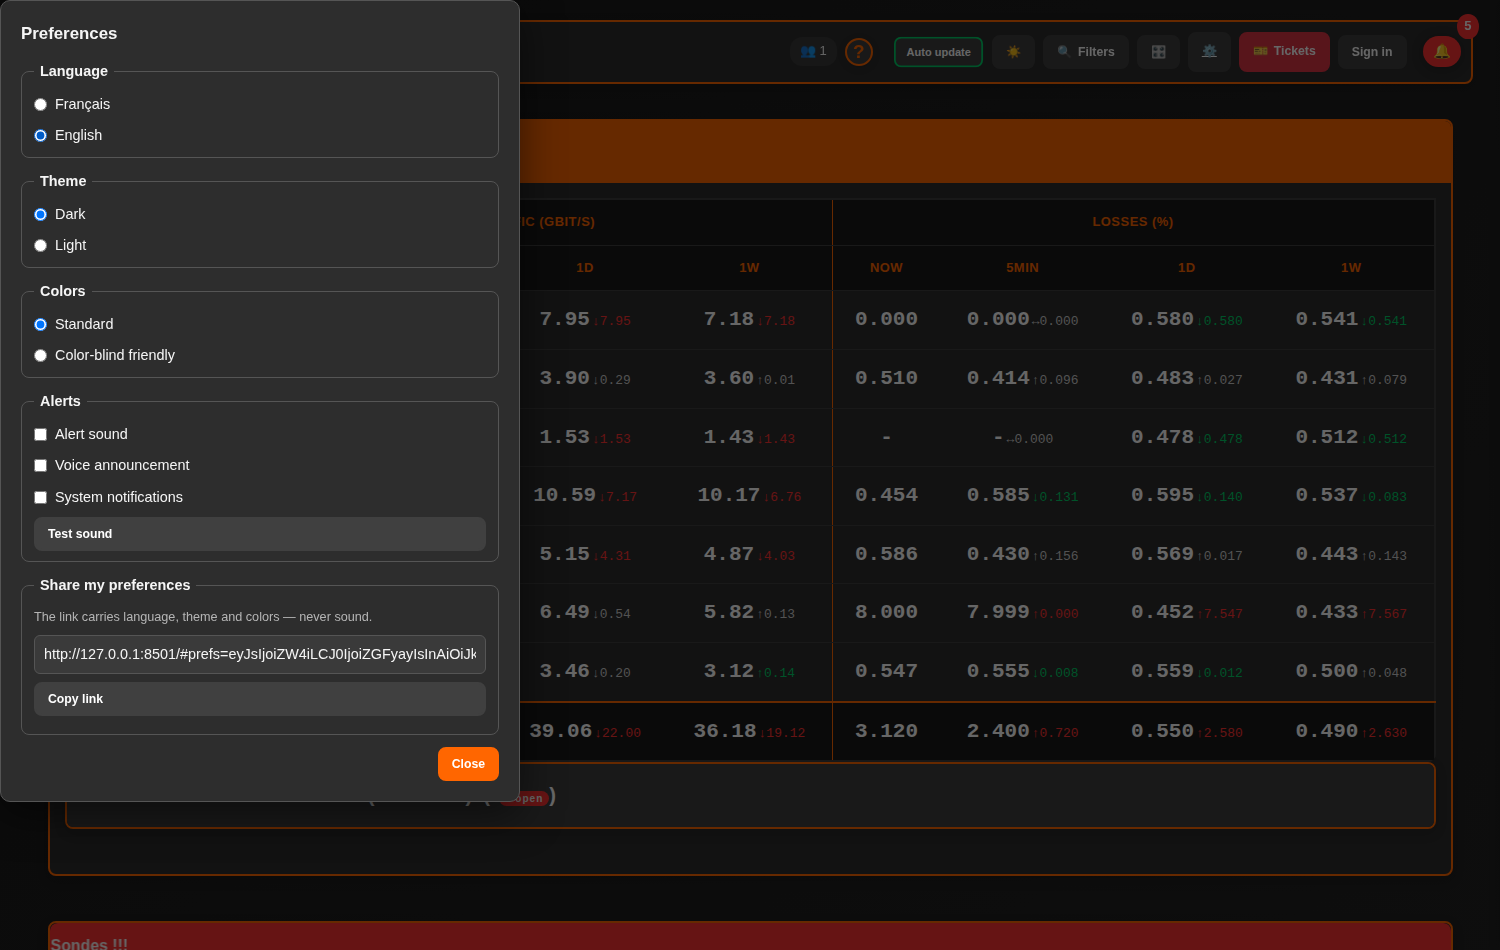
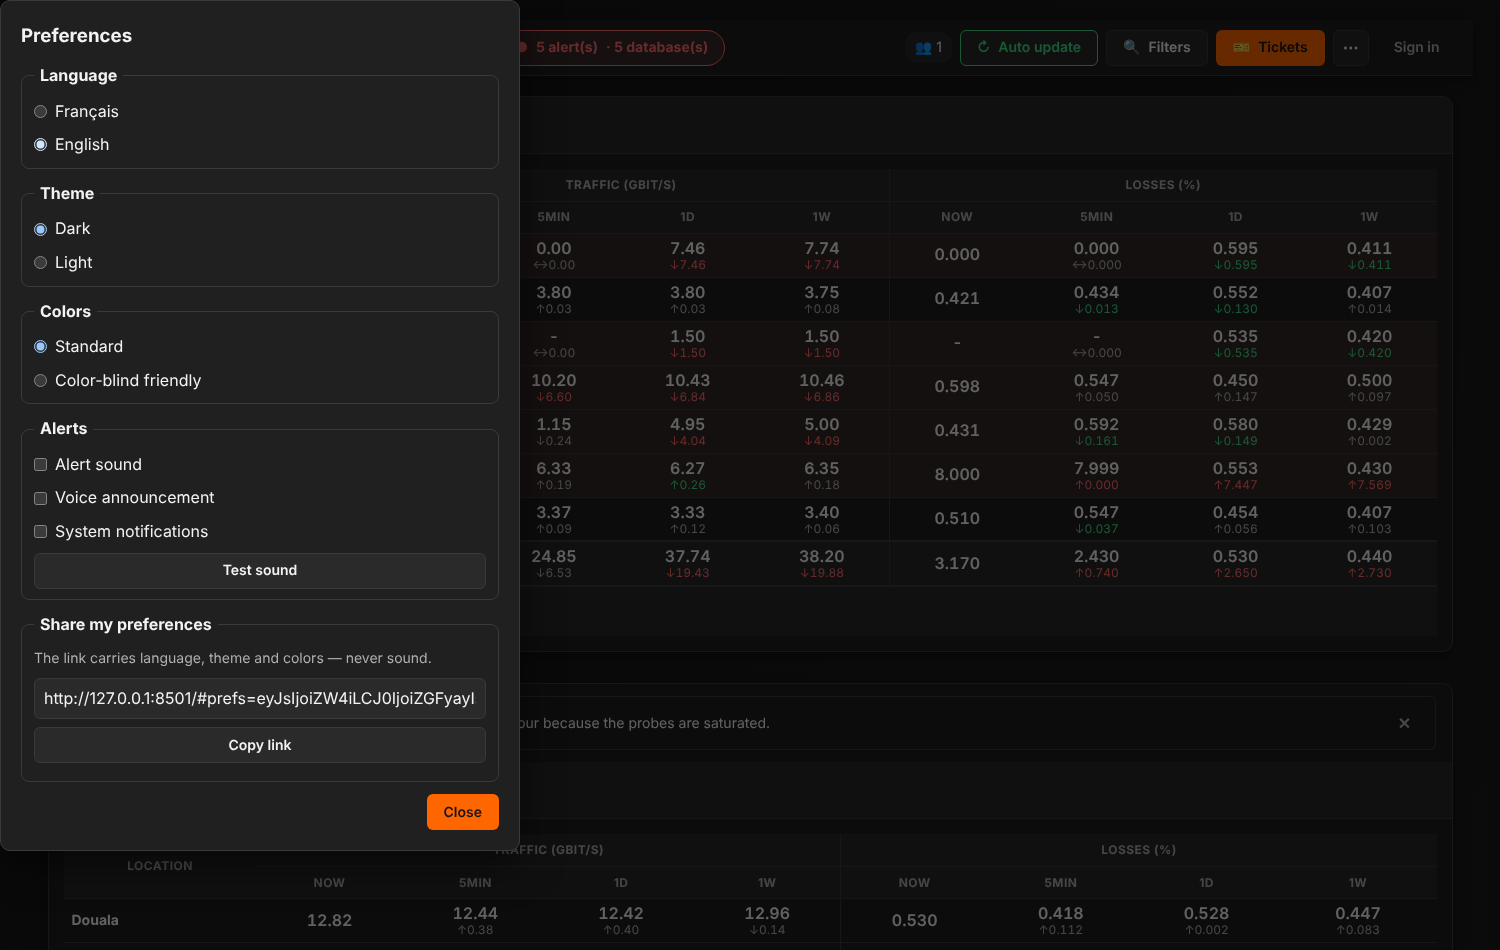
test(E2E): 7 tests migrés vers menus/navigation, 6 nouveaux tests (menus clavier, bande d'état, légende, avis, indice de défilement, barre mobile)
(cherry picked from commit b226ae35f01ef8e0baf6c30e569601f4a593c66d)

diff --git a/tests/e2e/test_e2e_ui.py b/tests/e2e/test_e2e_ui.py
@@ -68,21 +68,23 @@ def test_every_data_row_carries_its_database_key(stack, page):
 def test_language_switch_translates_and_persists(stack, page):
     page.goto(BASE + "/")
     page.wait_for_selector("tr[data-db]")
+    page.click("#moreBtn")
     page.click("#prefsBtn")
     page.check("#prefs-dialog input[name=lang][value=en]")
-    assert page.inner_text("#autoUpdateBtn").strip() == "Auto update"
+    assert "Auto update" in page.inner_text("#autoUpdateBtn")
     assert page.get_attribute("html", "lang") == "en"
     assert "International Exit" in page.inner_text("#sections-grid")
     page.screenshot(path=str(SHOTS / "C02_prefs_dialog_en.png"))
     page.click("#prefs-dialog [data-action=closeDialog]")
     page.reload()
     page.wait_for_selector("tr[data-db]")
-    assert page.inner_text("#autoUpdateBtn").strip() == "Auto update"                         # mémorisé dans le navigateur
+    assert "Auto update" in page.inner_text("#autoUpdateBtn")                         # mémorisé dans le navigateur
     page.evaluate("localStorage.clear()")
 
 
 def test_palette_and_theme_preferences(stack, page):
     page.goto(BASE + "/")
+    page.click("#moreBtn")
     page.click("#prefsBtn")
     page.check("#prefs-dialog input[name=palette][value=colorblind]")
     page.check("#prefs-dialog input[name=theme][value=light]")
@@ -92,6 +94,7 @@ def test_palette_and_theme_preferences(stack, page):
 
 def test_share_link_applies_language_theme_palette_but_never_sound(stack, browser_ctx, page):
     page.goto(BASE + "/")
+    page.click("#moreBtn")
     page.click("#prefsBtn")
     page.check("#prefs-dialog input[name=lang][value=en]")
     page.check("#prefs-dialog input[name=palette][value=colorblind]")
@@ -248,13 +251,14 @@ def test_role_gates_on_reserved_pages(stack, supervisor, admin_api, page):
     assert "Droits insuffisants" in page.inner_text(".gate")                                     # superviseur ≠ admin
     page.goto(BASE + "/supervision")
     page.wait_for_selector("#tab-params")
-    assert page.locator("#nav-admin").count() == 0 and page.locator("#nav-supervision").count() == 1
+    assert page.get_attribute(".app-nav a[aria-current=page]", "href") == "/supervision"
 
 
 def test_logout_returns_to_visitor_and_leaves_reserved_pages(stack, supervisor, page):
     api_login(page, "sup1", SUP_PASSWORD)
     page.goto(BASE + "/supervision")
     page.wait_for_selector("#tab-params")
+    page.click("#accountBtn")
     page.click("#logoutBtn")
     page.wait_for_url(BASE + "/")
     page.wait_for_selector("#loginBtn")
@@ -587,3 +591,85 @@ def test_all_pages_are_clean_for_an_admin(stack, admin_api, page):
         page.wait_for_selector("#account-name", timeout=10000)
         page.wait_for_timeout(1200)
     assert problems == [], problems
+
+
+# ---------------------------------------------------------------- refonte graphique (U3 à U5)
+def test_more_menu_is_operable_with_the_keyboard(stack, page):
+    page.goto(BASE + "/")
+    page.wait_for_selector("tr[data-db]")
+    page.focus("#moreBtn")
+    page.keyboard.press("ArrowDown")
+    assert page.get_attribute("#moreBtn", "aria-expanded") == "true"
+    assert page.evaluate("() => document.activeElement.id") == "themeToggleBtn"
+    page.keyboard.press("ArrowDown")
+    assert page.evaluate("() => document.activeElement.id") == "prefsBtn"
+    page.keyboard.press("End")
+    assert page.evaluate("() => document.activeElement.id") == "configLink"
+    page.keyboard.press("Escape")
+    assert page.get_attribute("#moreBtn", "aria-expanded") == "false"
+    assert page.evaluate("() => document.activeElement.id") == "moreBtn"                        # le focus revient au bouton
+
+
+def test_status_strip_shows_alerts_and_jumps_to_the_row(stack, page):
+    insert_ticket(990101, database_name="kribi", reason="Test bande d'état")
+    ack_all()                                                                                    # la pop-up modale bloquerait le clic ; l'API invalide aussi le cache serveur
+    page.goto(BASE + "/")
+    page.wait_for_selector("tr[data-db]")
+    wait_js(page, "document.getElementById('statusStrip').classList.contains('is-bad')")
+    assert "alerte" in page.inner_text("#statusStrip")
+    row = page.locator("tr[data-db='kribi']").first
+    assert row.get_attribute("data-alert") not in (None, "none")
+    assert row.locator(".alert-flag").count() == 1                                                 # repère : pastille, pas la couleur seule
+    page.click("#statusStrip")
+    wait_js(page, "document.activeElement && document.activeElement.closest('tr[data-alert]') || "
+                  "document.querySelector('tr[data-alert]:not([data-alert=none])').getBoundingClientRect().top < innerHeight")
+
+
+def test_legend_opens_from_the_menu_and_closes_with_escape(stack, page):
+    page.goto(BASE + "/")
+    page.wait_for_selector("tr[data-db]")
+    page.click("#moreBtn")
+    page.click("#helpBtn")
+    page.wait_for_selector("#help-dialog[open]")
+    page.keyboard.press("Escape")
+    page.wait_for_selector("#help-dialog", state="detached")
+
+
+def test_gi_notice_is_static_and_dismissal_is_remembered(stack, page):
+    page.goto(BASE + "/")
+    page.wait_for_selector("tr[data-db]")
+    notice = page.locator("#giNotice")
+    assert notice.is_visible()
+    assert page.evaluate("() => getComputedStyle(document.getElementById('giNotice').querySelector('.notice__text')).animationName") == "none"
+    notice.locator("button").click()
+    assert page.locator("#giNotice").count() == 0
+    page.reload()
+    page.wait_for_selector("tr[data-db]")
+    assert page.locator("#giNotice").count() == 0                                                 # mémorisé
+    page.evaluate("localStorage.clear()")
+
+
+def test_wide_table_gets_a_scroll_hint_at_tablet_width(stack, browser_ctx):
+    ctx = browser_ctx.new_context(viewport={"width": 768, "height": 1024})
+    pg = ctx.new_page()
+    pg.goto(BASE + "/")
+    pg.wait_for_selector("tr[data-db]")
+    wait_js(pg, "document.querySelector('#table-wrapper-international_gi[data-scrollable]')")
+    assert pg.locator("#table-wrapper-international_gi").evaluate("w => w.previousElementSibling.classList.contains('scroll-hint') && !w.previousElementSibling.hidden")
+    assert pg.evaluate("() => document.documentElement.scrollWidth <= innerWidth")                 # la page ne défile pas, le tableau si
+    ctx.close()
+
+
+def test_mobile_app_bar_is_compact_and_opens_its_actions(stack, browser_ctx):
+    ctx = browser_ctx.new_context(viewport={"width": 390, "height": 844}, is_mobile=True, has_touch=True)
+    pg = ctx.new_page()
+    pg.goto(BASE + "/")
+    pg.wait_for_selector("tr[data-db]", state="attached")
+    assert pg.locator("#appBar").bounding_box()["height"] <= 64
+    assert not pg.locator("#autoUpdateBtn").is_visible()
+    pg.click("#appBarToggle")
+    assert pg.get_attribute("#appBarToggle", "aria-expanded") == "true" and pg.locator("#autoUpdateBtn").is_visible()
+    pg.click("#appBarToggle")
+    wait_js(pg, "document.querySelector('.mobile-card')")
+    assert pg.locator(".mobile-card[data-alert]:not([data-alert=none]) .chip").count() >= 1       # l'état d'alerte est écrit, pas seulement coloré
+    ctx.close()

diff --git a/tests/e2e/test_e2e_playwright.py b/tests/e2e/test_e2e_playwright.py
@@ -212,8 +212,14 @@ def test_alert_popup_is_an_accessible_modal_with_focus_management_and_escape(sta
 
 def test_icon_buttons_have_accessible_names_and_toggle_state(stack, page):
     _open_dashboard(page)
-    for sel in ("#themeToggleBtn", "#filterBtn", "#configLink", "#prefsBtn"):
+    for sel in ("#moreBtn", "#filterBtn"):
         assert page.get_attribute(sel, "aria-label"), f"{sel} sans libellé accessible"
+    assert page.get_attribute("#moreBtn", "aria-haspopup") == "menu" and page.get_attribute("#moreBtn", "aria-expanded") == "false"
+    page.click("#moreBtn")
+    assert page.get_attribute("#moreBtn", "aria-expanded") == "true"
+    for sel in ("#themeToggleBtn", "#prefsBtn", "#helpBtn", "#configLink"):
+        assert page.inner_text(sel).strip(), f"{sel} sans libellé"
+    page.keyboard.press("Escape")
     before = page.get_attribute("#autoUpdateBtn", "aria-pressed")
     page.evaluate("() => { const o = document.getElementById('alert-popup'); if (o) o.style.display = 'none'; }")
     page.click("#autoUpdateBtn")
@@ -227,7 +233,7 @@ def test_keyboard_only_reaches_the_main_controls(stack, page):
     for _ in range(14):
         page.keyboard.press("Tab")
         seen.add(page.evaluate("() => document.activeElement && document.activeElement.id"))
-    assert {"autoUpdateBtn", "themeToggleBtn", "prefsBtn", "configLink"} <= seen
+    assert {"statusStrip", "autoUpdateBtn", "filterBtn", "moreBtn"} <= seen
 
 
 # ====================================================================== mobile & second navigateur
